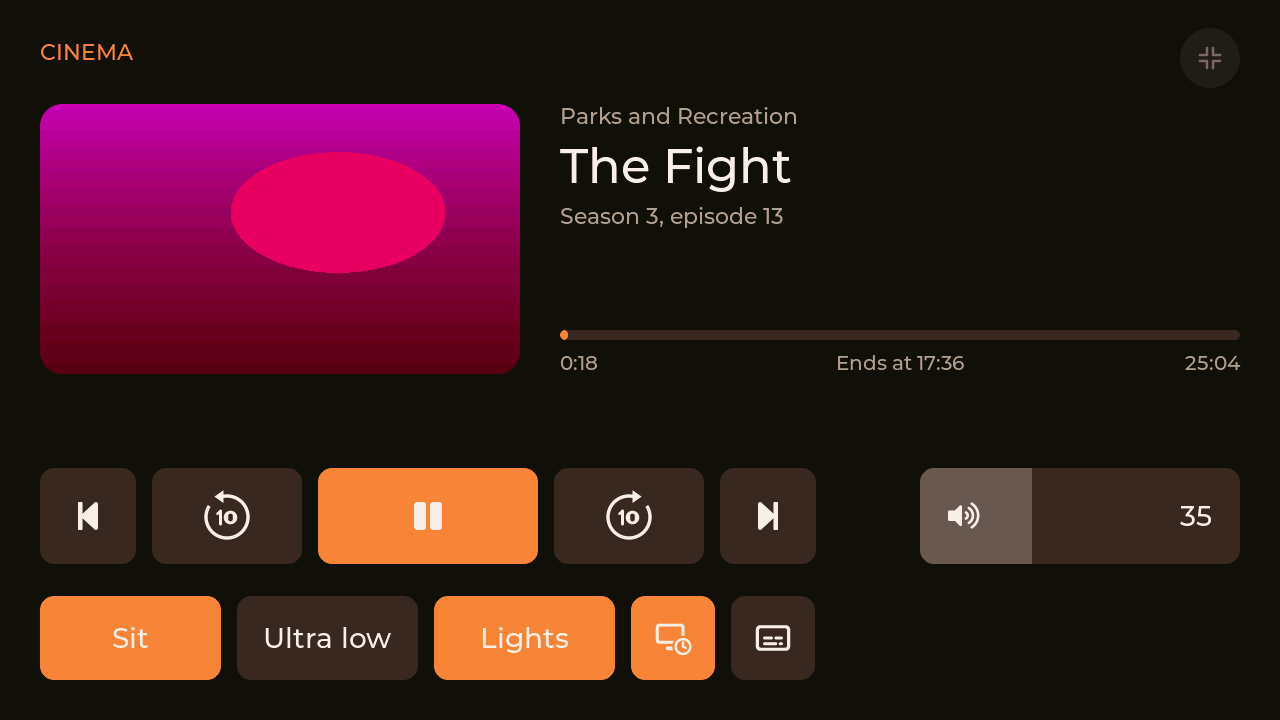
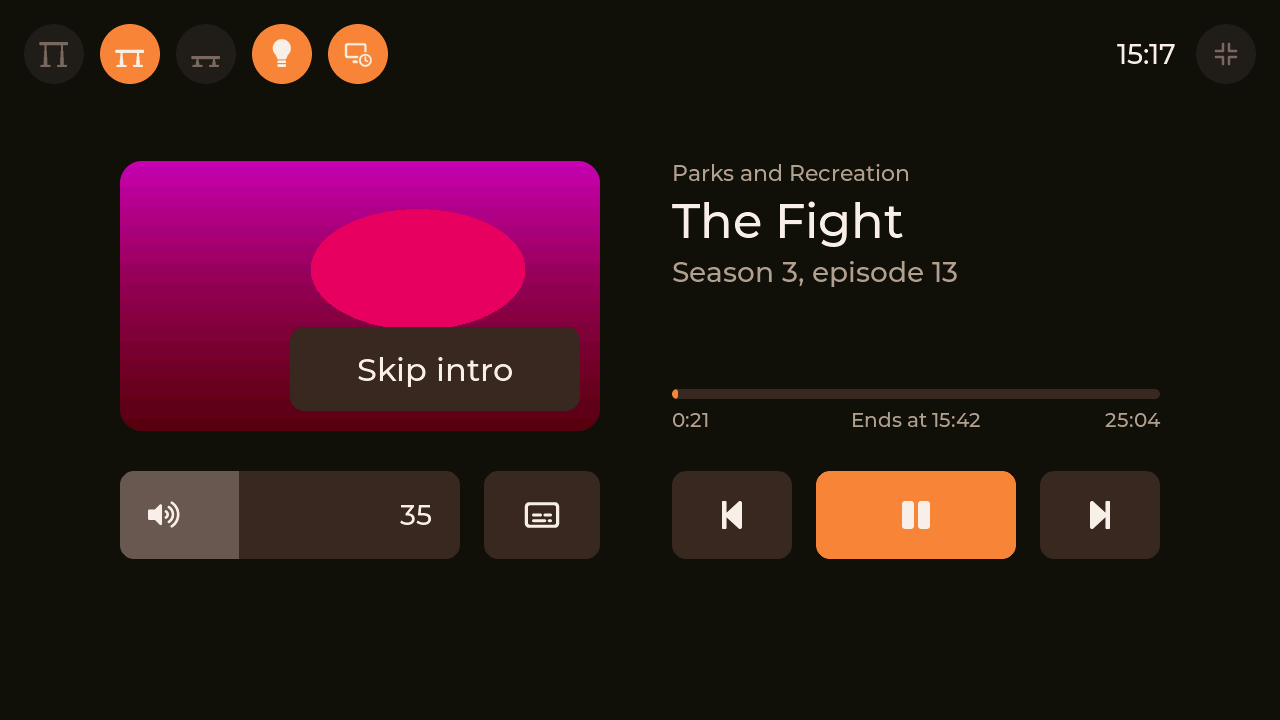
Bring the README up to what the player playing would not act on being left out, the speaker's apps among them, and Home keeping only the air while the phone is away; the cinema view's picture taken again for its layout now, and the changelog with the change

diff --git a/README.md b/README.md
@@ -90,7 +90,7 @@ Stand and Sit are always in the dock, under the height as the control box report
 
 ![The cinema view](docs/screenshots/cinema.png)
 
-When something plays on Jellyfin the media card follows it, and holding the card sends the desk to its viewing height. The cinema view has the episode's still, when it ends, skip intro, next episode, subtitles, volume, and the lights and the desk within reach. Players that cannot be controlled from elsewhere (the Streamyfin app, for one) are still followed, their buttons just fade out.
+When something plays on Jellyfin the control bar follows it, and holding it there sends the desk to its viewing height. The cinema view has the episode's still, when it ends, skip intro, next episode, subtitles, volume, and the lights and the desk within reach. Players that cannot be controlled from elsewhere (the Streamyfin app, for one) are still followed, just without the buttons they would not act on. The speaker is the same: whatever app plays on it, only what that app takes is there, so a radio station has no track back or on.
 
 ### Planes overhead
 
@@ -124,7 +124,7 @@ Each laptop tells the panel through Claude Code's own hooks, with `tools/claude-
 
 ### Away from the desk
 
-The panel knows my phone over Bluetooth, by its identity key, and the phone in the control bar shows whether it is there. While it is away, Radar, Calendar and the focus timer are hidden, leaving Home and Setup, and presets 5 and 6 show for whoever uses the desk then. *Pages while away* in Setup turns that off.
+The panel knows my phone over Bluetooth, by its identity key, and the phone in the control bar shows whether it is there. While it is away, Radar, Calendar and the focus timer are hidden, Home keeps only the air, and presets 5 and 6 show for whoever uses the desk then. *Pages while away* in Setup turns that off.
 
 The screen can be switched off from Home Assistant, and a tap wakes it. While it is dark, the panel fetches nothing that only the screen would show. With Orientation on Auto, turning the panel upside down turns the picture with it.
 

diff --git a/CHANGELOG.md b/CHANGELOG.md
@@ -12,6 +12,7 @@ One frame for every page, with what is touched every day in it.
 - Home is the air, the radar as its page had it, and what comes next; the Radar page is the map to its every edge.
 - The desk's presets act as the control box's own keys: one tapped while the desk moves stops it, and a start just after a stop waits until the box will take it.
 - The panel shows it has been unplugged or plugged in within two seconds.
+- What the player playing would not act on is left out rather than faded: a Jellyfin player that is only followed has no play or skip, and the speaker shows only what the app on it takes, from its supported features in Home Assistant.
 - Claude Code on the laptops: a pill beside the lights while a session works, a ring of one piece per session with their count inside it, amber with a chime and a notice while one waits on you, and gone ten minutes after the last event. Its card has each session's project and laptop, what it does, its steps and what it did last. The laptops post to `/claude` from Claude Code's hooks with `tools/claude-hook`, names only, under a key of their own.
 - `/desk` on a development build: what the desk heard and was asked, and a preset tapped from afar.
 
